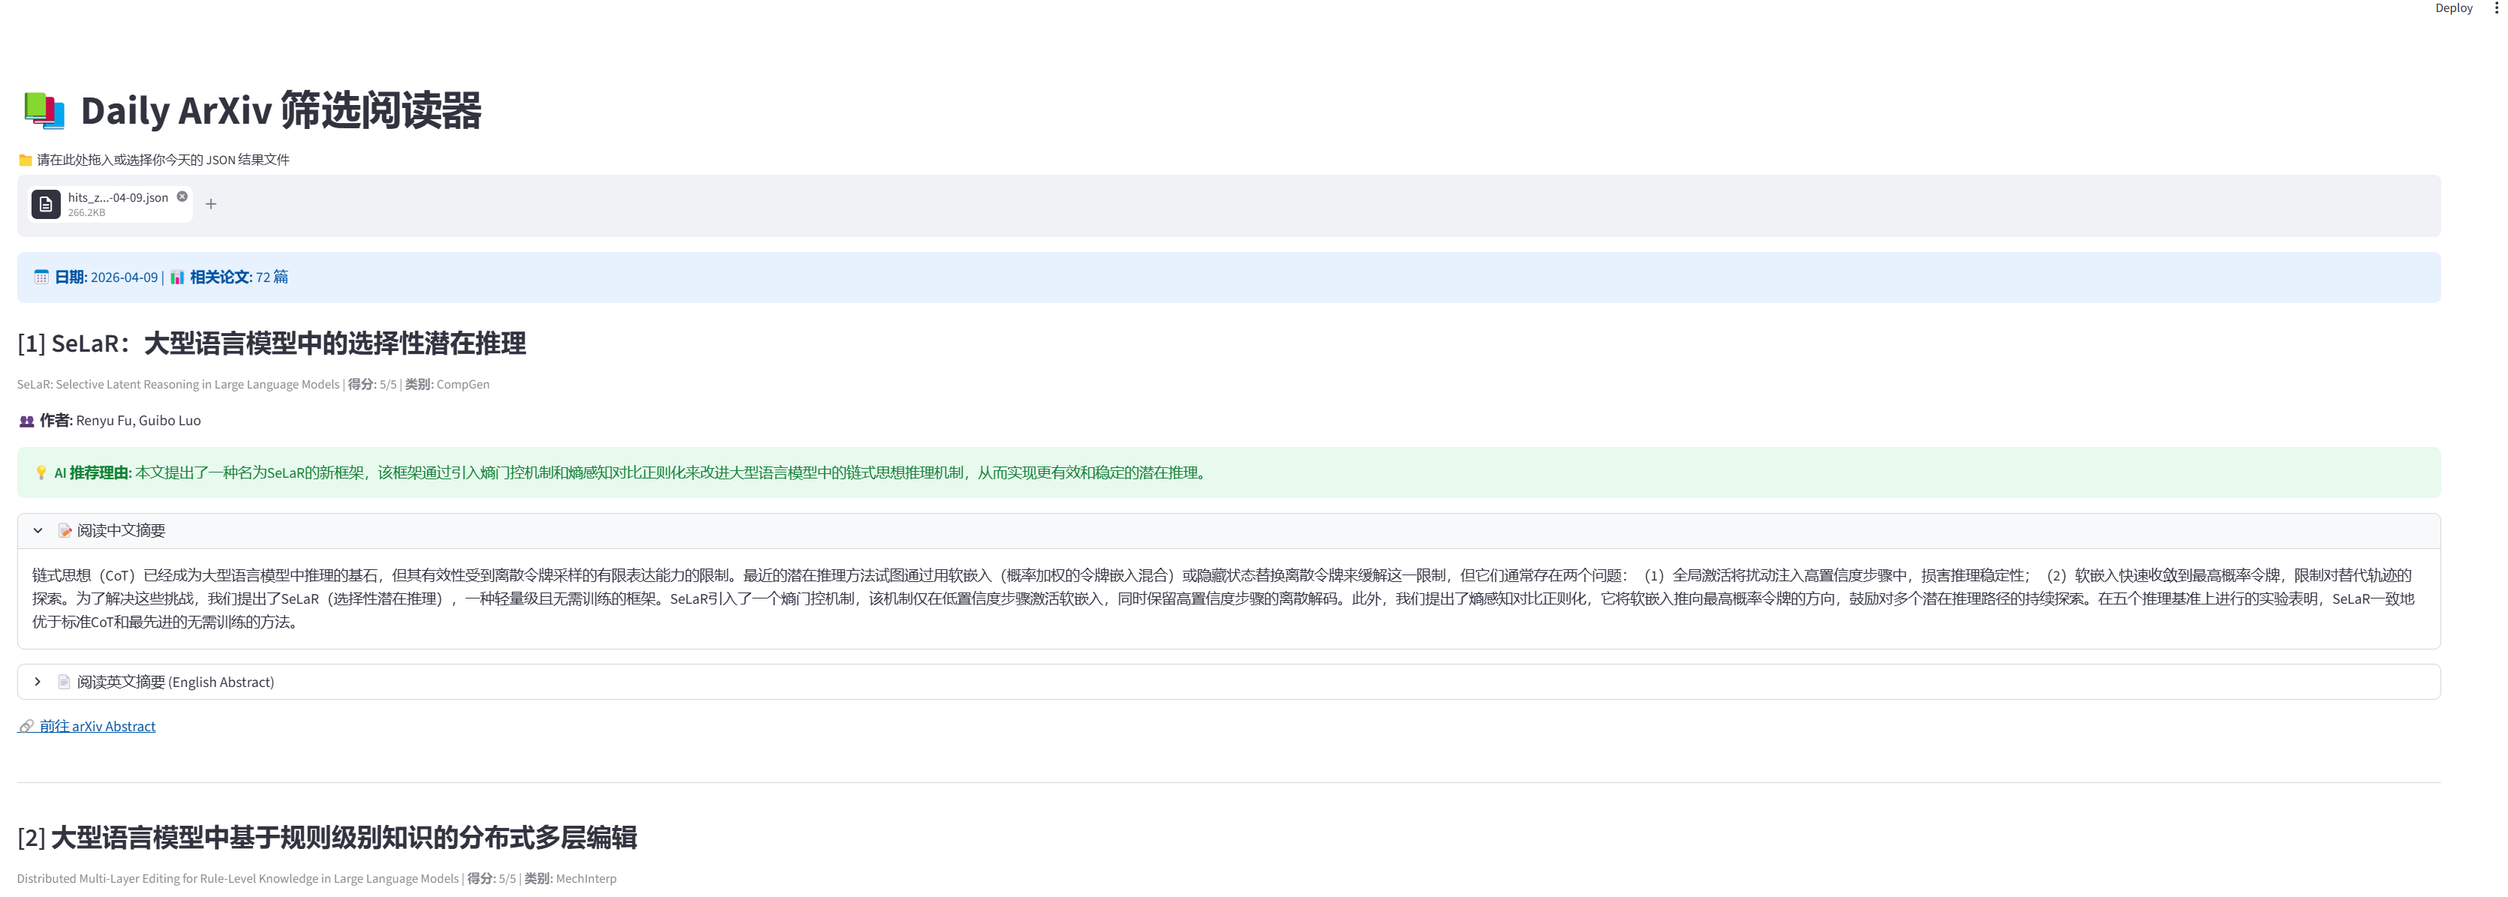
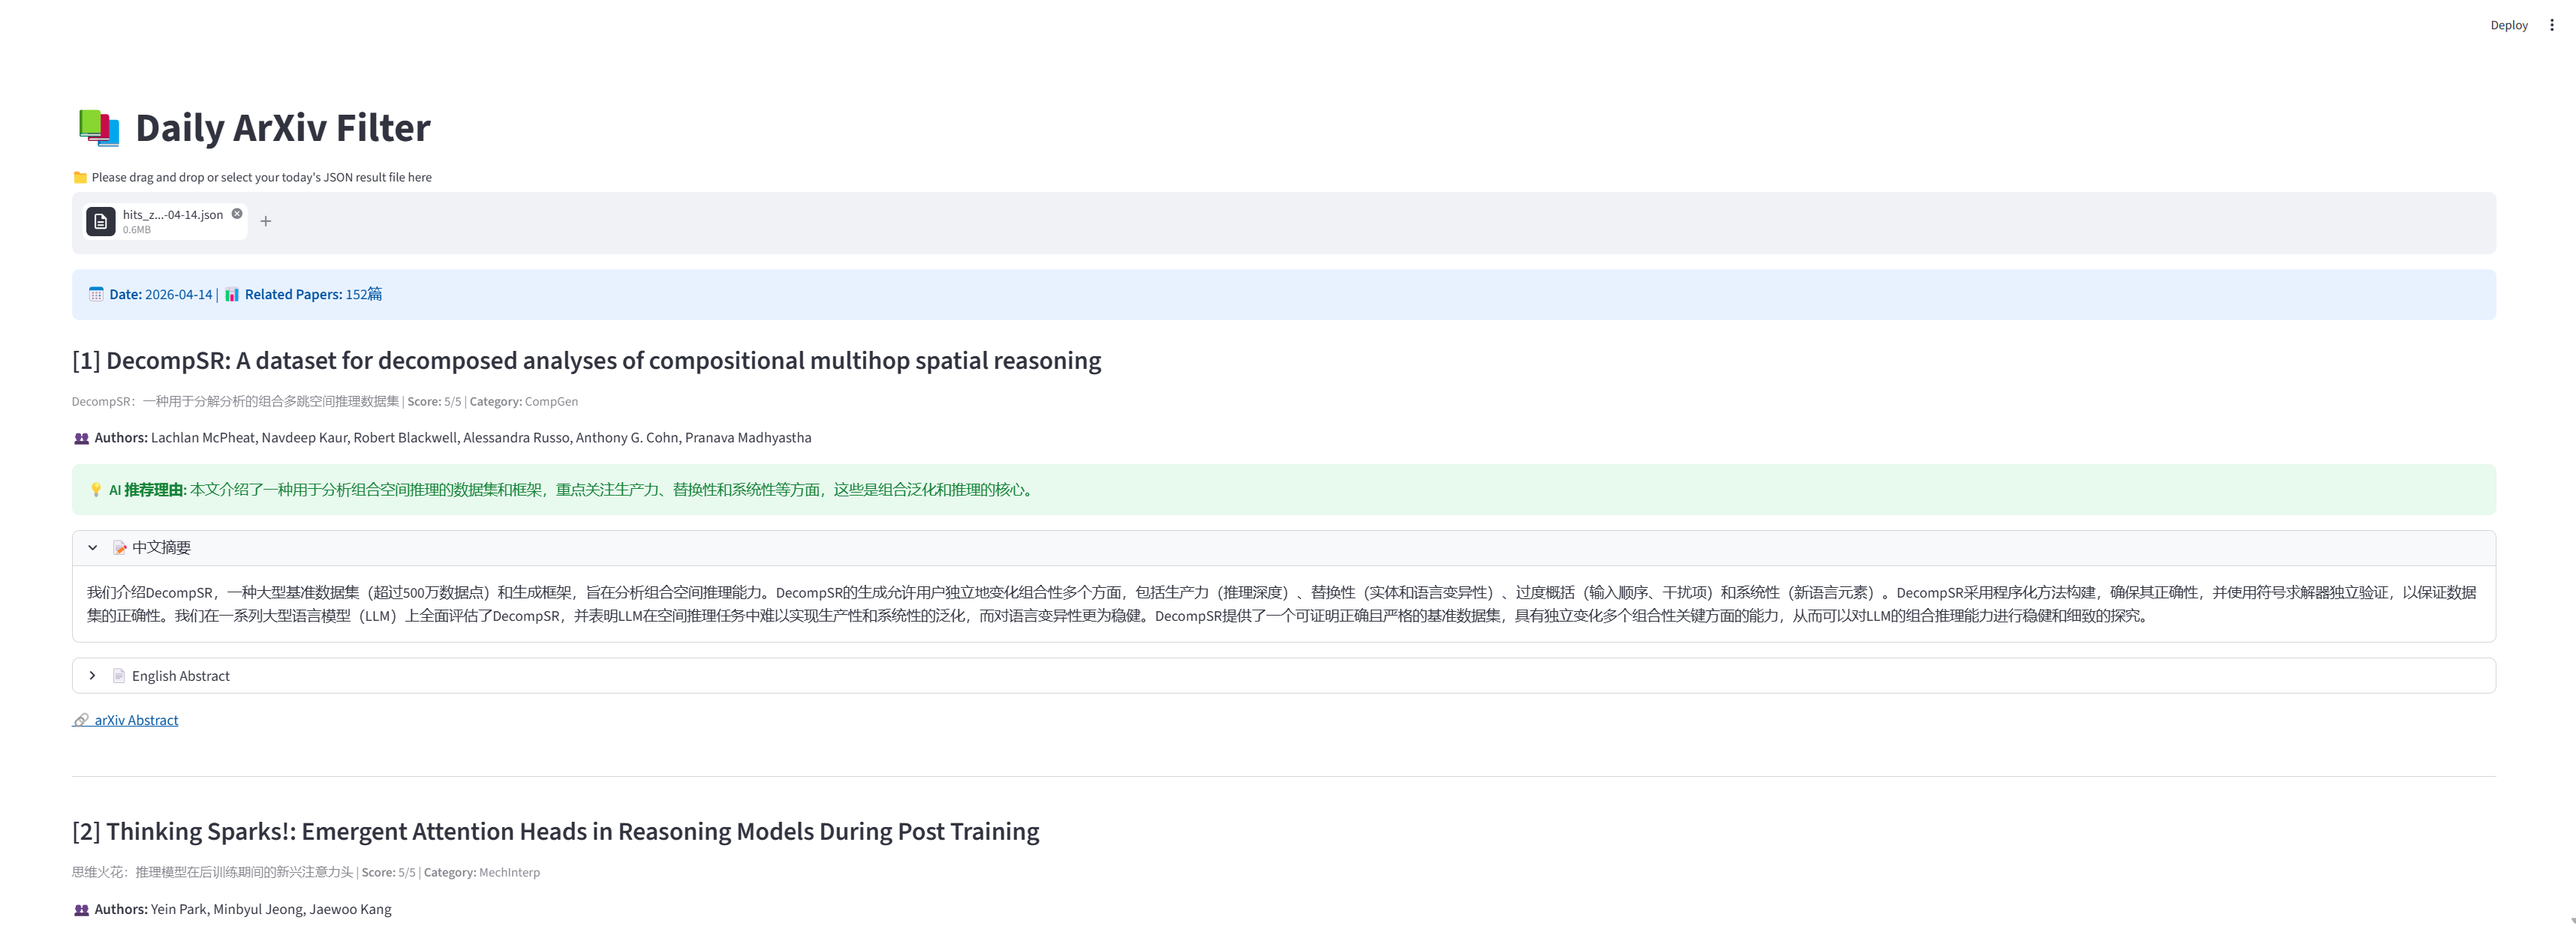
Correct paper-fetch logic from submission-date to update-date; change model to Llama3.3; Make GUI better

diff --git a/daily_arxiv/json2gui.py b/daily_arxiv/json2gui.py
@@ -1,45 +1,45 @@
 import streamlit as st
 import json
 
-# 设置页面配置，使用宽屏模式
+# Set page configuration, use wide layout
 st.set_page_config(page_title="ArXiv Daily", layout="wide")
 
-st.title("📚 Daily ArXiv 筛选阅读器")
+st.title("📚 Daily ArXiv Filter")
 
-# 修改了提示语，避免直接使用本地路径
-uploaded_file = st.file_uploader("📁 请在此处拖入或选择你今天的 JSON 结果文件", type="json")
+# Modified the prompt to avoid using local paths directly
+uploaded_file = st.file_uploader("📁 Please drag and drop or select your today's JSON result file here", type="json")
 
 if uploaded_file is not None:
-    # 加载 JSON 数据
+    # Load JSON data
     data = json.load(uploaded_file)
     meta = data.get("metadata", {})
     
-    # 显示概览信息
-    st.info(f"**📅 日期:** {meta.get('target_date')} | **📊 相关论文:** {meta.get('total_hits')} 篇")
+    # Display overview information
+    st.info(f"**📅 Date:** {meta.get('target_date')} | **📊 Related Papers:** {meta.get('total_hits')} papers")
     
-    # 遍历显示每一篇论文
+    # Iterate and display each paper
     for i, paper in enumerate(data.get("hits_zh", [])):
         eval_info = paper.get('eval', {})
         score = eval_info.get('relevance_score', 0)
         category = eval_info.get('category', 'None')
         
         with st.container():
-            # 标题部分
+            # Title section
             st.subheader(f"[{i+1}] {paper.get('title', paper.get('zh_title'))}")
-            st.caption(f"{paper.get('zh_title')} | **得分:** {score}/5 | **类别:** {category}")
-            st.write(f"**👥 作者:** {', '.join(paper.get('authors', []))}")
+            st.caption(f"{paper.get('zh_title')} | **Score:** {score}/5 | **Category:** {category}")
+            st.write(f"**👥 Authors:** {', '.join(paper.get('authors', []))}")
             
-            # AI 推荐理由
+            # AI Recommendation Reason
             st.success(f"**💡 AI 推荐理由:** {eval_info.get('zh_reason', eval_info.get('reason', '暂无'))}")
             
             # 中文摘要（默认不展开）
-            with st.expander("📝 阅读中文摘要", expanded=(score==5)):
+            with st.expander("📝 中文摘要", expanded=(score==5)):
                 st.write(paper.get('zh_abstract', '暂无中文摘要'))
                 
-            # 英文摘要（默认不展开）
-            with st.expander("📄 阅读英文摘要 (English Abstract)"):
+            # English abstract (collapsed by default)
+            with st.expander("📄 English Abstract"):
                 st.write(paper.get('abstract', 'No English abstract available.'))
                 
-            # 底部链接与分割线
-            st.markdown(f"[🔗 前往 arXiv Abstract]({paper.get('url')})")
+            # Bottom link and divider
+            st.markdown(f"[🔗 arXiv Abstract]({paper.get('url')})")
             st.divider()

diff --git a/daily_arxiv/other_models/daily_arxiv_filter_Llama3.1_70B_INT4.py b/daily_arxiv/other_models/daily_arxiv_filter_Llama3.1_70B_INT4.py
@@ -338,10 +338,10 @@ if __name__ == "__main__":
     parser = argparse.ArgumentParser(description="ArXiv Daily Paper Filter using vLLM")
     parser.add_argument("--date", type=str, default=None, help="Target date YYYY-MM-DD. Defaults to yesterday (UTC).")
     parser.add_argument("--threshold", type=int, default=4, help="Minimum relevance score threshold (1-5)")
-    parser.add_argument("--model_path", type=str, default="./weights/Llama-3.3-70B-Instruct")
-    parser.add_argument("--tp_size", type=int, default=4, help="Tensor Parallelism size")
-    parser.add_argument("--gpu_util", type=float, default=0.90, help="vLLM GPU memory utilization ratio")
-    parser.add_argument("--max_num_seqs", type=int, default=128, help="Maximum number of sequences to process in parallel")
+    parser.add_argument("--model_path", type=str, default="./weights/Meta-Llama-3.1-70B-Instruct-AWQ-INT4")
+    parser.add_argument("--tp_size", type=int, default=2, help="Tensor Parallelism size")
+    parser.add_argument("--gpu_util", type=float, default=0.85, help="vLLM GPU memory utilization ratio")
+    parser.add_argument("--max_num_seqs", type=int, default=256, help="Maximum number of sequences to process in parallel")
     parser.add_argument("--save_dir", type=str, default="./llm-paper-filter/daily_arxiv", help="Base directory to save results")
 
     args = parser.parse_args()
@@ -359,7 +359,7 @@ if __name__ == "__main__":
     llm = LLM(
         model=args.model_path,
         tensor_parallel_size=args.tp_size,
-        dtype="bfloat16",
+        quantization="awq_marlin",
         gpu_memory_utilization=args.gpu_util,
         enable_prefix_caching=True,
         max_num_seqs=args.max_num_seqs,
@@ -431,9 +431,9 @@ if __name__ == "__main__":
     }
 
     # Save file paths
-    hits_save_path = os.path.join(hits_dir, f"hits_{target_date_str}.json")
-    hits_zh_save_path = os.path.join(hits_zh_dir, f"hits_zh_{target_date_str}.json")
-    all_papers_save_path = os.path.join(all_papers_dir, f"all_papers_{target_date_str}.json")
+    hits_save_path = os.path.join(hits_dir, f"hits_{target_date_str}_Llama3.1-70B-INT4.json")
+    hits_zh_save_path = os.path.join(hits_zh_dir, f"hits_zh_{target_date_str}_Llama3.1-70B-INT4.json")
+    all_papers_save_path = os.path.join(all_papers_dir, f"all_papers_{target_date_str}_Llama3.1-70B-INT4.json")
 
     # Write JSON
     with open(hits_save_path, "w", encoding="utf-8") as f:

diff --git a/daily_arxiv/other_models/daily_arxiv_filter_Qwen2.5_72B_Instruct.py b/daily_arxiv/other_models/daily_arxiv_filter_Qwen2.5_72B_Instruct.py
@@ -338,9 +338,9 @@ if __name__ == "__main__":
     parser = argparse.ArgumentParser(description="ArXiv Daily Paper Filter using vLLM")
     parser.add_argument("--date", type=str, default=None, help="Target date YYYY-MM-DD. Defaults to yesterday (UTC).")
     parser.add_argument("--threshold", type=int, default=4, help="Minimum relevance score threshold (1-5)")
-    parser.add_argument("--model_path", type=str, default="./weights/Llama-3.3-70B-Instruct")
+    parser.add_argument("--model_path", type=str, default="./weights/Qwen2.5-72B-Instruct")
     parser.add_argument("--tp_size", type=int, default=4, help="Tensor Parallelism size")
-    parser.add_argument("--gpu_util", type=float, default=0.90, help="vLLM GPU memory utilization ratio")
+    parser.add_argument("--gpu_util", type=float, default=0.9, help="vLLM GPU memory utilization ratio")
     parser.add_argument("--max_num_seqs", type=int, default=128, help="Maximum number of sequences to process in parallel")
     parser.add_argument("--save_dir", type=str, default="./llm-paper-filter/daily_arxiv", help="Base directory to save results")
 
@@ -434,7 +434,7 @@ if __name__ == "__main__":
     hits_save_path = os.path.join(hits_dir, f"hits_{target_date_str}.json")
     hits_zh_save_path = os.path.join(hits_zh_dir, f"hits_zh_{target_date_str}.json")
     all_papers_save_path = os.path.join(all_papers_dir, f"all_papers_{target_date_str}.json")
-
+    
     # Write JSON
     with open(hits_save_path, "w", encoding="utf-8") as f:
         json.dump(hits_payload, f, ensure_ascii=False, indent=4)

diff --git a/README.md b/README.md
@@ -15,6 +15,7 @@ Currently, this repository features `daily_arxiv_filter.py`, a high-throughput t
     ├── hits/                  # Stores the filtered "high-value" papers (Score >= threshold)
     ├── hits_zh/               # Stores the translated Chinese versions of the hits
     ├── html_reports/          # Store the HTML GUI
+    ├── other_models/          # Scripts for other base-llm-version    
     ├── json2gui.py            # Make a local streamlit GUI to show json file in hits_zh/
     └── daily_arxiv_filter.py  # The core execution script
 ```
@@ -38,11 +39,12 @@ pip install arxiv vllm transformers
 
 ```bash
 python daily_arxiv/daily_arxiv_filter.py \
-  --date 2026-04-08 \ # if not given, fetch arxiv papers submitted yesterday (UTC Time)
+  --date 2026-04-14 \ # if not given, fetch arxiv papers submitted yesterday (UTC Time)
   --threshold 4 \
-  --model_path /path/to/your/local/model \
-  --tp_size 2 \
-  --gpu_util 0.85 \
+  --model_path /path/to/your/local/model \ # now we recommend to use Llama-3.3-70B-Instruct
+  --tp_size 4 \
+  --gpu_util 0.90 \
+  --max_num_seqs 128 \
   --save_dir /path/to/save/directory
 ```
 
@@ -52,13 +54,14 @@ python daily_arxiv/daily_arxiv_filter.py \
 | ---------------- | -------------------------------------- | ------------------------------------------------------------ |
 | `--date`         | `None` (Yesterday UTC)                 | Target date in `YYYY-MM-DD` format.                          |
 | `--threshold`    | `4`                                    | Minimum relevance score (1-5) to classify a paper as a "hit". |
-| `--model_path`   | `Meta-Llama-3.1-70B-Instruct-AWQ-INT4` | Path to the local HuggingFace model weights.                 |
-| `--tp_size`      | `2`                                    | Tensor Parallelism size (Number of GPUs to split the model across). |
-| `--gpu_util`     | `0.85`                                 | GPU memory utilization ratio for vLLM.                       |
-| `--max_num_seqs` | `256`                                  | Maximum number of sequences to process in parallel           |
+| `--model_path`   | `Llama-3.3-70B-Instruct`               | Path to the local HuggingFace model weights.                 |
+| `--tp_size`      | `4`                                    | Tensor Parallelism size (Number of GPUs to split the model across). |
+| `--gpu_util`     | `0.90`                                 | GPU memory utilization ratio for vLLM.                       |
+| `--max_num_seqs` | `128`                                  | Maximum number of sequences to process in parallel           |
 | `--save_dir`     | `daily_arxiv`                          | Base directory to save the output JSON files.                |
 
-The script defaults to a 70B Llama-3.1 INT4 AWQ model using 2 GPUs of 48GB via Tensor Parallelism.
+The script defaults to a Llama-3.3-70B-Instruct model using 4 GPUs of 48GB via Tensor Parallelism.
+You can find previous other-base-llm version in `llm-paper-filter/daily_arxiv/other_models`.
 
 #### Prompt Demo
 
@@ -84,9 +87,9 @@ You must evaluate the paper and return ONLY a valid JSON object.
 CRITICAL: Do not include markdown formatting, code blocks (```json), or any conversational text. 
 The JSON must strictly follow this schema:
 {
-  "relevance_score": integer, // Use this strict rubric: 1 = Unrelated (does not touch the subfields); 2 = Mentioned Only (keywords appear in background/future work, but not the core focus); 3 = Peripheral/Application (applies concepts as tools but lacks mechanism depth); 4 = Strong Match (core contribution improves/analyzes mechanisms in the subfields); 5 = Core Contribution (fundamentally solves or heavily focuses on base problems in MechInterp/CompGen).
+  "relevance_score": integer, // Use this strict rubric: 1 = Unrelated; 2 = Mentioned Only; 3 = Peripheral/Application; 4 = Strong Match; 5 = Core Contribution.
   "category": string, // "MechInterp", "CompGen", "Both", or "None"
-  "reason": string // A concise, one-sentence justification for your decision. Better to summarize the core contribution of the paper and how it relates to the subfield(s) than to simply restate the title/abstract.
+  "reason": string // A concise, one-sentence justification.
 }
 ```
 
@@ -99,16 +102,17 @@ streamlit run llm-paper-filter/daily_arxiv/json2gui.py
 
 By using `streamlit run` in your PC,  you can get a GUI for daily arxiv json file in the `llm-paper-filter/daily_arxiv/hits_zh` folder, or you can find html GUI in `daily_arxiv/html_reports` folder.
 
-![image-20260410174253479](./imgs/streamlit_arxiv_gui.png)
+![streamlit_arxiv_gui](./imgs/streamlit_arxiv_gui.png)
 
+![html_gui](./imgs/html_gui.png)
 ---
 
 ## 🚀TODO
 
-⬜ Change LLM model version for best performance.
+✅ Change LLM model version for best performance. (Now we choose Llama-3.3-70B-Instruct)
 
-✅ Build GUI for better reading.
+✅ Build GUI for better reading. (Support streamlit and html)
 
-⬜ Include affiliations  and citations during filtering.
+⬜ Include affiliations and citations during filtering.
 
 ⬜ Support major AI conferences (e.g., ICLR, NeurIPS, ICML, ACL).
